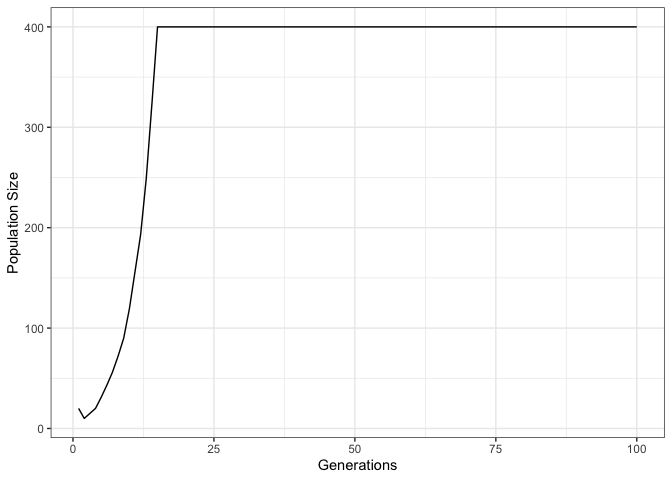
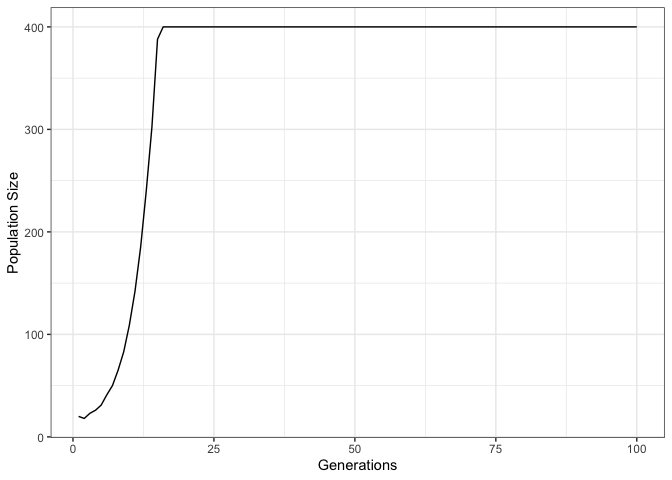
Look at all these commits! Update README. Will continue later...

diff --git a/README.md b/README.md
@@ -85,11 +85,11 @@ sim1.2 <- setDT(sim1[[1]])
 head(sim1.2)
 #>    generation P.size
 #> 1:          1     20
-#> 2:          2     10
-#> 3:          3     15
-#> 4:          4     20
+#> 2:          2     18
+#> 3:          3     23
+#> 4:          4     26
 #> 5:          5     31
-#> 6:          6     43
+#> 6:          6     41
 ```
 
 A plot can then be generated using the
@@ -107,112 +107,28 @@ the upper limit of 400 as this is the number of host plants I seeded the
 field with.
 
 This example can be easily replicated many times using the function
-`onehost_oneparasite_dynamics()`.
+`onehost_oneparasite_dynamics()`, with an extra parameter argument,
+reps, which can be used to specify the number of replicate simulations
+to use.
 
 ``` r
 # use same parameters as above
-sim2 <- HoPaSim::onehost_oneparasite_dynamics(field.size = 25^2, s = 2, host.number = 400, parasite.number = 20, gens = 100, reps = 30)
-#> Warning in replicates[i] <- onehost_oneparasite(field.size = field.size, :
-#> number of items to replace is not a multiple of replacement length
+sim2 <- suppressWarnings(HoPaSim::onehost_oneparasite_dynamics(field.size = 25^2, s = 2, host.number = 400, parasite.number = 20, gens = 100, reps = 30))
+head(sim2)
+#>    generation P.size rep
+#> 1:          1     20   1
+#> 2:          2     12   1
+#> 3:          3     15   1
+#> 4:          4     19   1
+#> 5:          5     26   1
+#> 6:          6     31   1
 
-#> Warning in replicates[i] <- onehost_oneparasite(field.size = field.size, :
-#> number of items to replace is not a multiple of replacement length
-
-#> Warning in replicates[i] <- onehost_oneparasite(field.size = field.size, :
-#> number of items to replace is not a multiple of replacement length
-
-#> Warning in replicates[i] <- onehost_oneparasite(field.size = field.size, :
-#> number of items to replace is not a multiple of replacement length
-
-#> Warning in replicates[i] <- onehost_oneparasite(field.size = field.size, :
-#> number of items to replace is not a multiple of replacement length
-
-#> Warning in replicates[i] <- onehost_oneparasite(field.size = field.size, :
-#> number of items to replace is not a multiple of replacement length
-
-#> Warning in replicates[i] <- onehost_oneparasite(field.size = field.size, :
-#> number of items to replace is not a multiple of replacement length
-
-#> Warning in replicates[i] <- onehost_oneparasite(field.size = field.size, :
-#> number of items to replace is not a multiple of replacement length
-
-#> Warning in replicates[i] <- onehost_oneparasite(field.size = field.size, :
-#> number of items to replace is not a multiple of replacement length
-
-#> Warning in replicates[i] <- onehost_oneparasite(field.size = field.size, :
-#> number of items to replace is not a multiple of replacement length
-
-#> Warning in replicates[i] <- onehost_oneparasite(field.size = field.size, :
-#> number of items to replace is not a multiple of replacement length
-
-#> Warning in replicates[i] <- onehost_oneparasite(field.size = field.size, :
-#> number of items to replace is not a multiple of replacement length
-
-#> Warning in replicates[i] <- onehost_oneparasite(field.size = field.size, :
-#> number of items to replace is not a multiple of replacement length
-
-#> Warning in replicates[i] <- onehost_oneparasite(field.size = field.size, :
-#> number of items to replace is not a multiple of replacement length
-
-#> Warning in replicates[i] <- onehost_oneparasite(field.size = field.size, :
-#> number of items to replace is not a multiple of replacement length
-
-#> Warning in replicates[i] <- onehost_oneparasite(field.size = field.size, :
-#> number of items to replace is not a multiple of replacement length
-
-#> Warning in replicates[i] <- onehost_oneparasite(field.size = field.size, :
-#> number of items to replace is not a multiple of replacement length
-
-#> Warning in replicates[i] <- onehost_oneparasite(field.size = field.size, :
-#> number of items to replace is not a multiple of replacement length
-
-#> Warning in replicates[i] <- onehost_oneparasite(field.size = field.size, :
-#> number of items to replace is not a multiple of replacement length
-
-#> Warning in replicates[i] <- onehost_oneparasite(field.size = field.size, :
-#> number of items to replace is not a multiple of replacement length
-
-#> Warning in replicates[i] <- onehost_oneparasite(field.size = field.size, :
-#> number of items to replace is not a multiple of replacement length
-
-#> Warning in replicates[i] <- onehost_oneparasite(field.size = field.size, :
-#> number of items to replace is not a multiple of replacement length
-
-#> Warning in replicates[i] <- onehost_oneparasite(field.size = field.size, :
-#> number of items to replace is not a multiple of replacement length
-
-#> Warning in replicates[i] <- onehost_oneparasite(field.size = field.size, :
-#> number of items to replace is not a multiple of replacement length
-
-#> Warning in replicates[i] <- onehost_oneparasite(field.size = field.size, :
-#> number of items to replace is not a multiple of replacement length
-
-#> Warning in replicates[i] <- onehost_oneparasite(field.size = field.size, :
-#> number of items to replace is not a multiple of replacement length
-
-#> Warning in replicates[i] <- onehost_oneparasite(field.size = field.size, :
-#> number of items to replace is not a multiple of replacement length
-
-#> Warning in replicates[i] <- onehost_oneparasite(field.size = field.size, :
-#> number of items to replace is not a multiple of replacement length
-
-#> Warning in replicates[i] <- onehost_oneparasite(field.size = field.size, :
-#> number of items to replace is not a multiple of replacement length
-
-#> Warning in replicates[i] <- onehost_oneparasite(field.size = field.size, :
-#> number of items to replace is not a multiple of replacement length
-
-sim2
-#>       generation P.size rep
-#>    1:          1     20   1
-#>    2:          2     14   1
-#>    3:          3     21   1
-#>    4:          4     27   1
-#>    5:          5     37   1
-#>   ---                      
-#> 2996:         96    400  30
-#> 2997:         97    400  30
-#> 2998:         98    400  30
-#> 2999:         99    400  30
-#> 3000:        100    400  30
+ggplot(sim2, aes(x = generation, y = P.size))+geom_line(aes(group = rep)) + theme_bw() + xlab(label = "Generations") + ylab(label = "Population Size")
 ```
+
+![](README_files/figure-gfm/unnamed-chunk-5-1.png)<!-- -->
+
+From this, it is easy to see that there is certainly variability
+associated with this simulation, but they are all roughly doing a
+similar thing. The driving engine for the simulations is the R function
+`sample`, and this is causing the variability.
